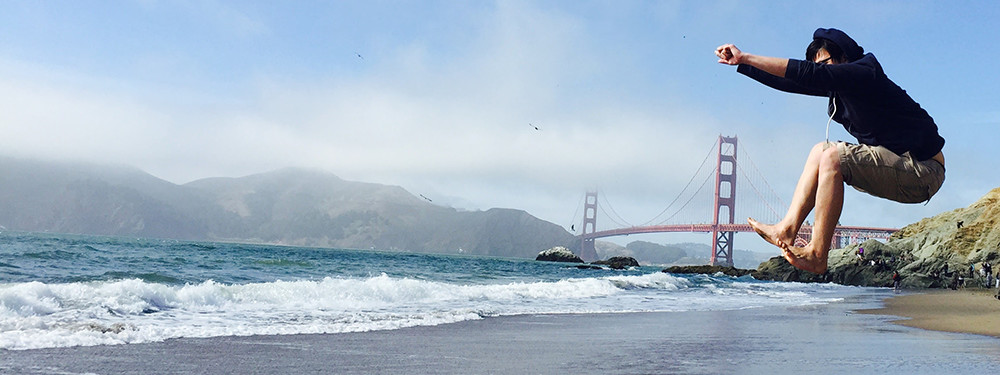
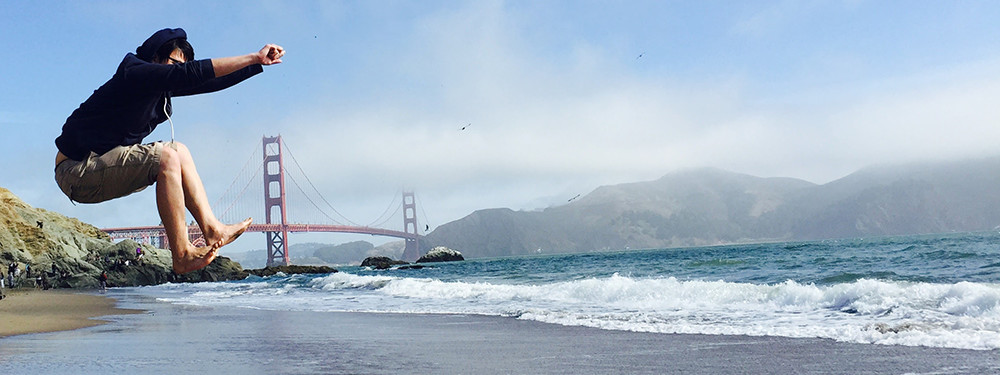
v2

diff --git a/index.html b/index.html
@@ -110,7 +110,7 @@
               <!-- FIRST SLIDE OVERLAY -->
               <div class="slider_overlay"></div> 
               <!-- FIRST SLIDE MAIN IMAGE -->
-              <img src="img/hero_pic.jpg" alt="img">
+              <img src="img/hero_pic3.jpg" alt="img">
               <!-- FIRST SLIDE CAPTION-->
               <div class="slider_caption">
                 <h2>Hua-Ying Tsai</h2>
@@ -147,7 +147,7 @@
                 <div class="col-lg-12 col-md-12">
                     <div class="summary_area">
                     <div class="heading">
-                        <h2 class="wow fadeInLeftBig">Summary</h2>
+                        <h2 class="wow fadeInLeftBig">Summary <a class="fa fa-file-pdf-o link" href="https://goo.gl/fiVcp7" target="_blank" style="font-size:36px"></a></h2>
                         <p>I am a MS student majoring in Computer Science at University of Southern California. I am currently looking for a Full-Time Software Engineer position beginning in Fall 2016. 
                         </p>
                         <p>I am dedicated to developing human-friendly applications. My interests include Human-computer interaction, Data Visualization, Game Development, and some aspect of Machine Learning. I worked as an full-stack engineer in Yahoo Taiwan, mainly focusing on creative advertising presentation.
@@ -214,11 +214,11 @@
       <!--=========== BEGIN SKILL SECTION ================-->
       <section id="skills">
           <!-- BEGAIN FORTFOLIO WORSK SECTION -->
-      <div class="row">
-        <div class="skills_list darktheme">
+          <div class="darktheme">
+        <div class="container">
           <div class="row">
-            <div class="col-lg-12 col-md-12">
-             <div class="container">
+            <div class="col-lg-12 col-md-12 col-sm-12">
+                <div class="skills_list ">
                 <div class="heading">
                   <h2 class="wow fadeInLeftBig">Technical Skills</h2>
                   <p>Programming Experience: Python, Java, C++, C
@@ -229,8 +229,8 @@
               </div>
             </div>
           </div>
-          </div>
-          </div>
+             </div>     
+         </div> 
        <!-- BEGAIN SKILLS  -->
         <div class="row">
           <div class="col-lg-12 col-md-12">
@@ -271,7 +271,8 @@
             </div>
           </div>
         </div>
-        <!-- END SKILLS  -->
+
+          <!-- END SKILLS  -->
     </section>
     <!--=========== END ABOUT SECTION ================-->
 
@@ -290,17 +291,18 @@
                             <h4 class="panel-title">
                               <a data-toggle="collapse" data-parent="#accordion1" href="#collapseOne1">
                                  <span class="fa fa-check-square-o"></span>
-                                  API Engineer, Yahoo Search Marketing, Yahoo Taiwan 	 
+                                  API Engineer, Yahoo Search Marketing, Yahoo Taiwan, Sep 2012 - Oct 2013 	 
                               </a>
                             </h4>
                           </div>
                           <div id="collapseOne1" class="panel-collapse collapse in">
                             <div class="panel-body">
                                 <p>
-                             Developed a suite of products for advertising solutions, mainly focusing on Soeasy.
+                                    Developed a suite of products for advertising solutions, mainly focusing on <a class="link" target="_blank" href="https://tw.ysm.emarketing.yahoo.com/soeasy/" >SOEASY.</a>
 <br>
 Developed systems to support advertisement analysis and management for internal use.
-<br>Provided technical consultations for customers and resellers. 
+<br>Provided technical consultations for customers and resellers. <br>
+                                    <a class="link" target="_blank" href="https://marketing.tw.campaign.yahoo.net/emarketing/searchmarketing/" >Yahoo Search Marketing, Taiwan</a>
 
                                 </p>
                             </div>
@@ -312,13 +314,13 @@ Developed systems to support advertisement analysis and management for internal 
                             <h4 class="panel-title">
                               <a data-toggle="collapse" data-parent="#accordion1" href="#collapseTwo1">
                                  <span class="fa fa-check-square-o"></span>
-                                  Web Developer, USC 		 
+                                  Web Developer, USC, Fall 2014 		 
                               </a>
                             </h4>
                           </div>
                           <div id="collapseTwo1" class="panel-collapse collapse">
                             <div class="panel-body">
-                                <p>Built the website of USC Club of Private Equity and Venture Capital. 			
+                                <p>Built the <a class="link" target="_blank" href="http://www.uscpevc.com/">website</a> of USC Club of Private Equity and Venture Capital. 			
 </p>
                             </div>
                           </div>
@@ -336,7 +338,7 @@ Developed systems to support advertisement analysis and management for internal 
             <div class="row">
                 <div class="col-lg-12 col-md-12">
                     <div class="heading">
-                        <h2 class="wow fadeInLeftBig">Project Experience</h2>
+                        <h2 class="wow fadeInLeftBig">Project Experience <a class="fa fa-github link" href="https://github.com/huaying" target="_blank"></a></h2>
                         
                          <div class="panel-group" id="accordion2">
                         <!-- START SINGLE FEATURED ITEAM #1-->
@@ -345,7 +347,7 @@ Developed systems to support advertisement analysis and management for internal 
                             <h4 class="panel-title">
                               <a data-toggle="collapse" data-parent="#accordion2" href="#collapseOne2">
                                  <span class="fa fa-check-square-o"></span>
-                                 Faceoff, Mobile Game on iOS 	 
+                                 Faceoff, Mobile Game on iOS, Fall 2015 - Present	 
                               </a>
                             </h4>
                           </div>
@@ -356,6 +358,8 @@ Developed systems to support advertisement analysis and management for internal 
 <br>
 Combined the photo taking feature into the game as characters of gamers.
                                 </p>
+                                <iframe src="https://player.vimeo.com/video/149765076" width="500" height="282" frameborder="0" webkitallowfullscreen mozallowfullscreen allowfullscreen></iframe>
+
                             </div>
                           </div>
                         </div>
@@ -365,7 +369,7 @@ Combined the photo taking feature into the game as characters of gamers.
                             <h4 class="panel-title">
                               <a data-toggle="collapse" data-parent="#accordion2" href="#collapseTwo2">
                                  <span class="fa fa-check-square-o"></span>
-                                  Weapon Market Search Engine Experiment		 
+                                  Weapon Market Search Engine Experiment, Fall 2015	 
                               </a>
                             </h4>
                           </div>
@@ -374,6 +378,7 @@ Combined the photo taking feature into the game as characters of gamers.
                                 <p>Crawled websites to collect over 1M weapon data with Tika and Nutch, indexed and ranked
 weapon data with Solr, and analysed and visualised weapon data with Banana and D3.
 </p>
+                                <iframe width="420" height="315" src="https://www.youtube.com/embed/An44Q7xFq9g" frameborder="0" allowfullscreen></iframe>
                             </div>
                           </div>
                         </div>
@@ -383,7 +388,7 @@ weapon data with Solr, and analysed and visualised weapon data with Banana and D
                             <h4 class="panel-title">
                               <a data-toggle="collapse" data-parent="#accordion2" href="#collapseThree">
                                  <span class="fa fa-check-square-o"></span>
-                                  Multimedia Search Engine		 
+                                  Multimedia Search Engine, Spring 2015	 
                               </a>
                             </h4>
                           </div>
@@ -393,6 +398,7 @@ weapon data with Solr, and analysed and visualised weapon data with Banana and D
                                     Searched matched videos in accordance to the similarity in color, motion and sound.
 
 </p>
+                                <iframe src="https://player.vimeo.com/video/157513061" width="500" height="392" frameborder="0" webkitallowfullscreen mozallowfullscreen allowfullscreen></iframe>
                             </div>
                           </div>
                         </div>
@@ -402,13 +408,13 @@ weapon data with Solr, and analysed and visualised weapon data with Banana and D
                             <h4 class="panel-title">
                               <a data-toggle="collapse" data-parent="#accordion2" href="#collapseFour">
                                  <span class="fa fa-check-square-o"></span>
-                                 USCLife Prototype	 
+                                 USCLife Prototype, Fall 2014 
                               </a>
                             </h4>
                           </div>
                           <div id="collapseFour" class="panel-collapse collapse">
                             <div class="panel-body">
-                                <p>Developed a prototype mobile app-like website with jQuery-Mobile.<br>
+                                <p>Developed a <a class="link" target="_blank" href="./usclife/index.html">prototype</a> mobile app-like website with jQuery-Mobile.<br>
                                     Designed a mobile application collecting events around USC to promote USC Students
 involvement.
 </p>
@@ -421,15 +427,17 @@ involvement.
                             <h4 class="panel-title">
                               <a data-toggle="collapse" data-parent="#accordion2" href="#collapseFive">
                                  <span class="fa fa-check-square-o"></span>
-                                 3D Tetris	 
+                                 3D Tetris, Spring 2011	 
                               </a>
                             </h4>
                           </div>
                           <div id="collapseFive" class="panel-collapse collapse">
                             <div class="panel-body">
-                                <p>Built 3D Game Tetris with C++ and Orge 3D Framework, supporting multiplayer mode.
-Constructed a Demo version with Flash (Actionscript).
+                                <p>Built 3D Game Tetris with C++ and Orge 3D Framework, supporting multiplayer mode.<br>
+                                    Constructed a <a class="link" target="_blank" href="http://royal3501.appspot.com/Tetris3D/Tetris3D.html">Demo</a> version with Flash (Actionscript).
 </p>
+                                <iframe src="http://royal3501.appspot.com/Tetris3D/Tetris3D.html" scrolling="no" frameborder="no" height="600" width="400">
+</iframe>
                             </div>
                           </div>
                         </div>

diff --git a/style.css b/style.css
@@ -73,6 +73,9 @@ img{
  border:none;
 }
 
+.link {
+    color: #ffc400;
+}
 /* Preloader */
 #preloader {
   position: fixed;
@@ -122,6 +125,8 @@ img{
   text-decoration: none;
   outline: none;
 }
+
+
 
 /*--------------------*/
 /* HEADER */
@@ -558,6 +563,7 @@ div[data-dimension] {
     padding: 60px 0px;
     float: left;
     width: 100%;
+    display: inline;
 }
 
 .skills_area{
@@ -787,7 +793,7 @@ div[data-dimension] {
 	.og-close {z-index: 999;}
 	#about {padding: 50px 0;}
 	#service {padding: 50px 0 50px;}
-	#works {padding: 0 0 50px;}
+	#works {padding: 50px 0 50px;}
 	#team {padding: 50px 0;}
 	#pricing {padding: 50px 0;}
 	#blog {padding: 50px 0;}
